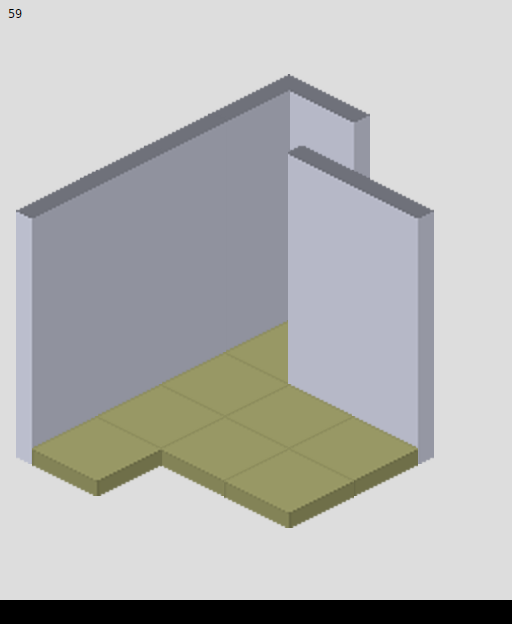
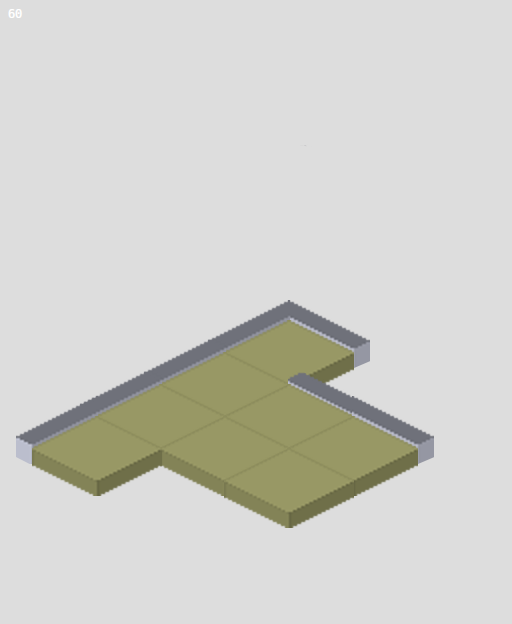
rooms with less wall

diff --git a/js/scenes/play.js b/js/scenes/play.js
@@ -6,56 +6,8 @@ define(['lib/scene', 'geo/v2', 'entity/uicontroller', 'lib/isogrid', 'entity/roo
 				this.gui = new UIController();
 				this.add(this.gui);
 
-				var shapes = [
-					[
-						[1, 1, 1],
-						[1, 1, 1],
-						[1, 1, 1]
-					],
-					[
-						[1, 1, 1],
-						[1, 1, 1],
-						[1, 1, 0]
-					],
-					[
-						[1, 1, 1, 1, 1],
-						[1, 1, 1, 1, 1]
-					],
-					[
-						[1, 0, 0],
-						[1, 1, 1],
-						[1, 1, 1],
-						[1, 0, 0]
-					],
-					[
-						[1, 0, 0, 1],
-						[1, 1, 1, 1],
-						[1, 1, 1, 1],
-						[1, 0, 0, 1]
-					],
-					[
-						[1, 1, 0],
-						[1, 1, 1],
-						[1, 1, 1],
-						[0, 1, 1]
-					],
-					[
-						[1, 1, 0],
-						[1, 1, 1],
-						[1, 1, 1],
-						[1, 1, 0]
-					],
-					[
-						[1, 1, 1, 1],
-						[1, 1, 1, 1],
-						[0, 1, 1, 0]
-					],
-				];
-
-
-
 				var grid = new IsoGrid(this, 64, 32);
-				this.room = new Room(Zero(), shapes[5], grid);
+				this.room = new Room(Zero(), rooms[10].shape, grid);
 
 				this.add(this.room);
 			}

diff --git a/data/rooms.js b/data/rooms.js
@@ -1,0 +1,92 @@
+var rooms = [
+	{
+		shape: [
+			[1, 1, 1],
+			[1, 1, 1],
+			[1, 1, 1]
+		]
+	},
+	{
+		shape: [
+			[1, 1, 1],
+			[1, 1, 1],
+			[1, 1, 0]
+		]
+	},
+	{
+		shape: [
+			[1, 1, 1, 1, 1],
+			[1, 1, 1, 1, 1]
+		]
+	},
+	{
+		shape: [
+			[1, 0, 0],
+			[1, 1, 1],
+			[1, 1, 1],
+			[1, 0, 0]
+		]
+	},
+	{
+		shape: [
+			[1, 0, 0, 1],
+			[1, 1, 1, 1],
+			[1, 1, 1, 1],
+			[1, 0, 0, 1]
+		]
+	},
+	{
+		shape: [
+			[1, 1, 1],
+			[1, 1, 0],
+			[1, 1, 0],
+			[1, 1, 0]
+		]
+	},
+	{
+		shape: [
+			[1, 1, 1],
+			[1, 1, 1],
+			[1, 1, 0],
+			[1, 1, 0]
+		]
+	},
+	{
+		shape: [
+			[1, 1, 1, 1],
+			[1, 1, 1, 1],
+			[1, 1, 0, 0]
+		]
+	},
+	{
+		shape: [
+			[1, 1, 1, 1],
+			[1, 1, 1, 1],
+			[0, 1, 1, 0]
+		]
+	},
+	{
+		shape: [
+			[1, 1, 0],
+			[1, 1, 1],
+			[1, 1, 1],
+			[1, 1, 0]
+		]
+	},
+	{
+		shape: [
+			[0, 1, 1],
+			[1, 1, 1],
+			[1, 1, 1],
+			[1, 1, 0]
+		]
+	},
+	{
+		shape: [
+			[1, 1, 0],
+			[1, 1, 1],
+			[1, 1, 1],
+			[0, 1, 1]
+		]
+	},
+];

diff --git a/index.html b/index.html
@@ -7,7 +7,7 @@
 
 		<script type="text/javascript" src="js/require.js" data-main="js/main"></script>
 		<script type="text/javascript" src="js/util.js"></script>
-		<script type="text/javascript" src="data/map.js"></script>
+		<script type="text/javascript" src="data/rooms.js"></script>
 
 		<!-- <script type="text/javascript" src="game.js"></script> -->
 	</head>
